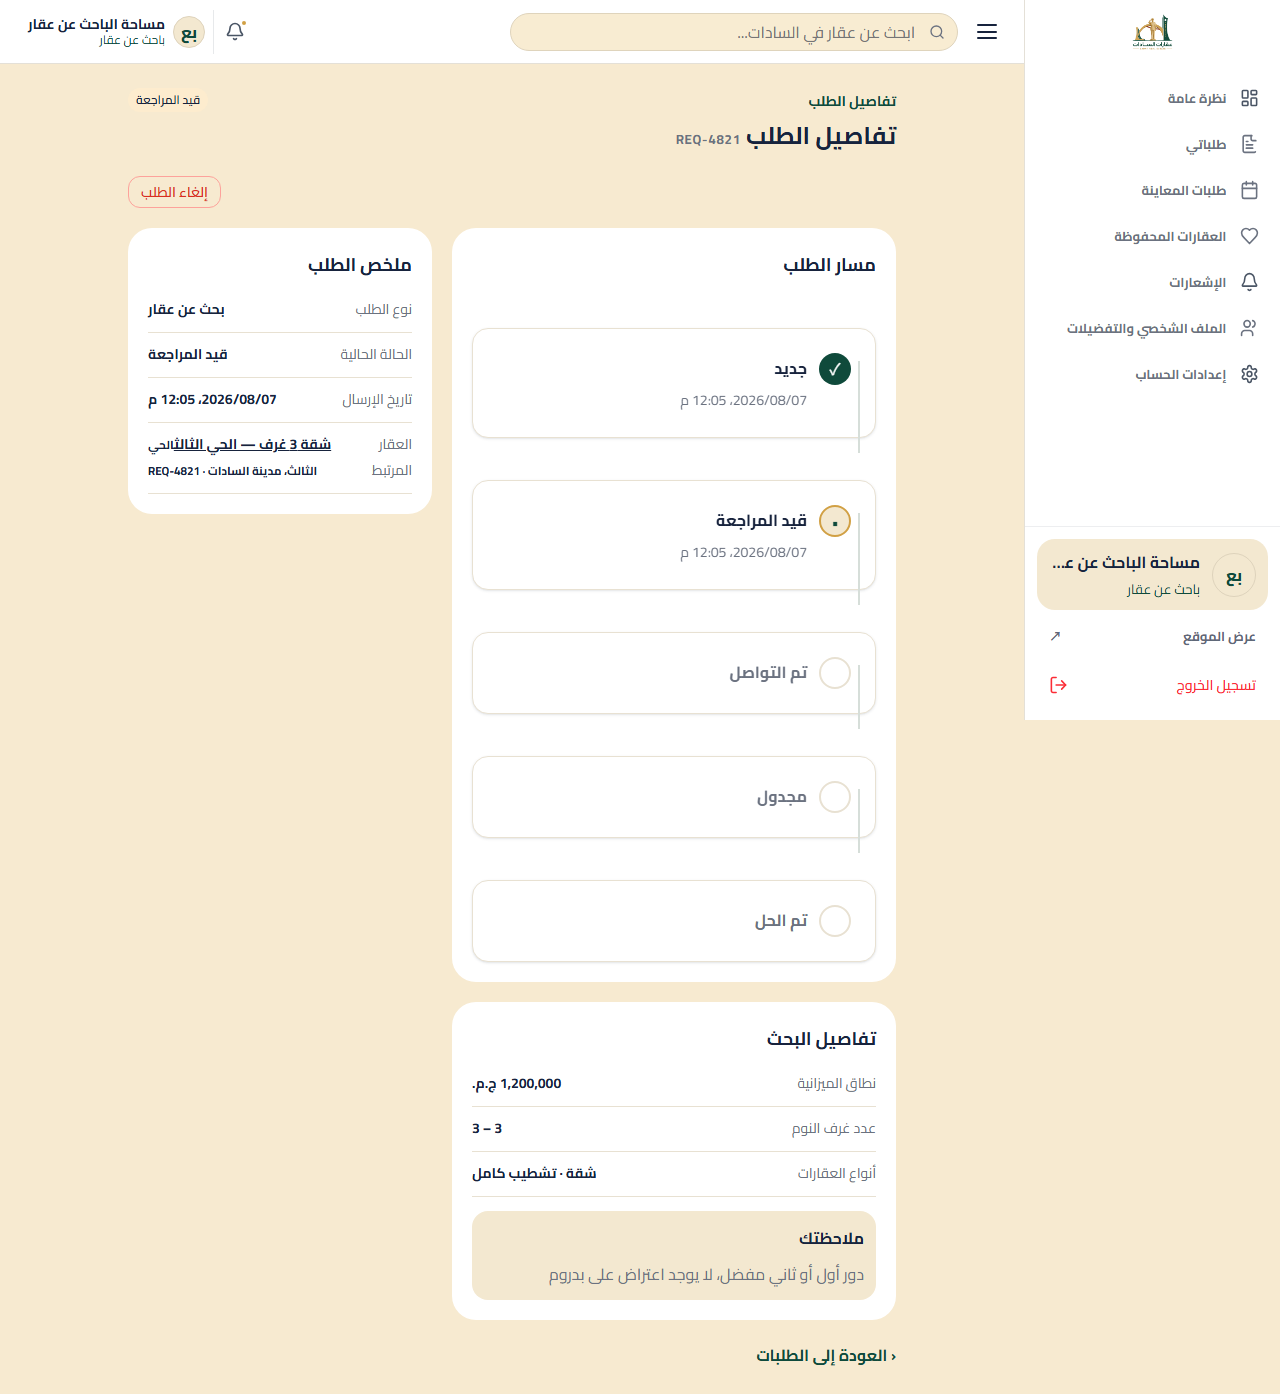
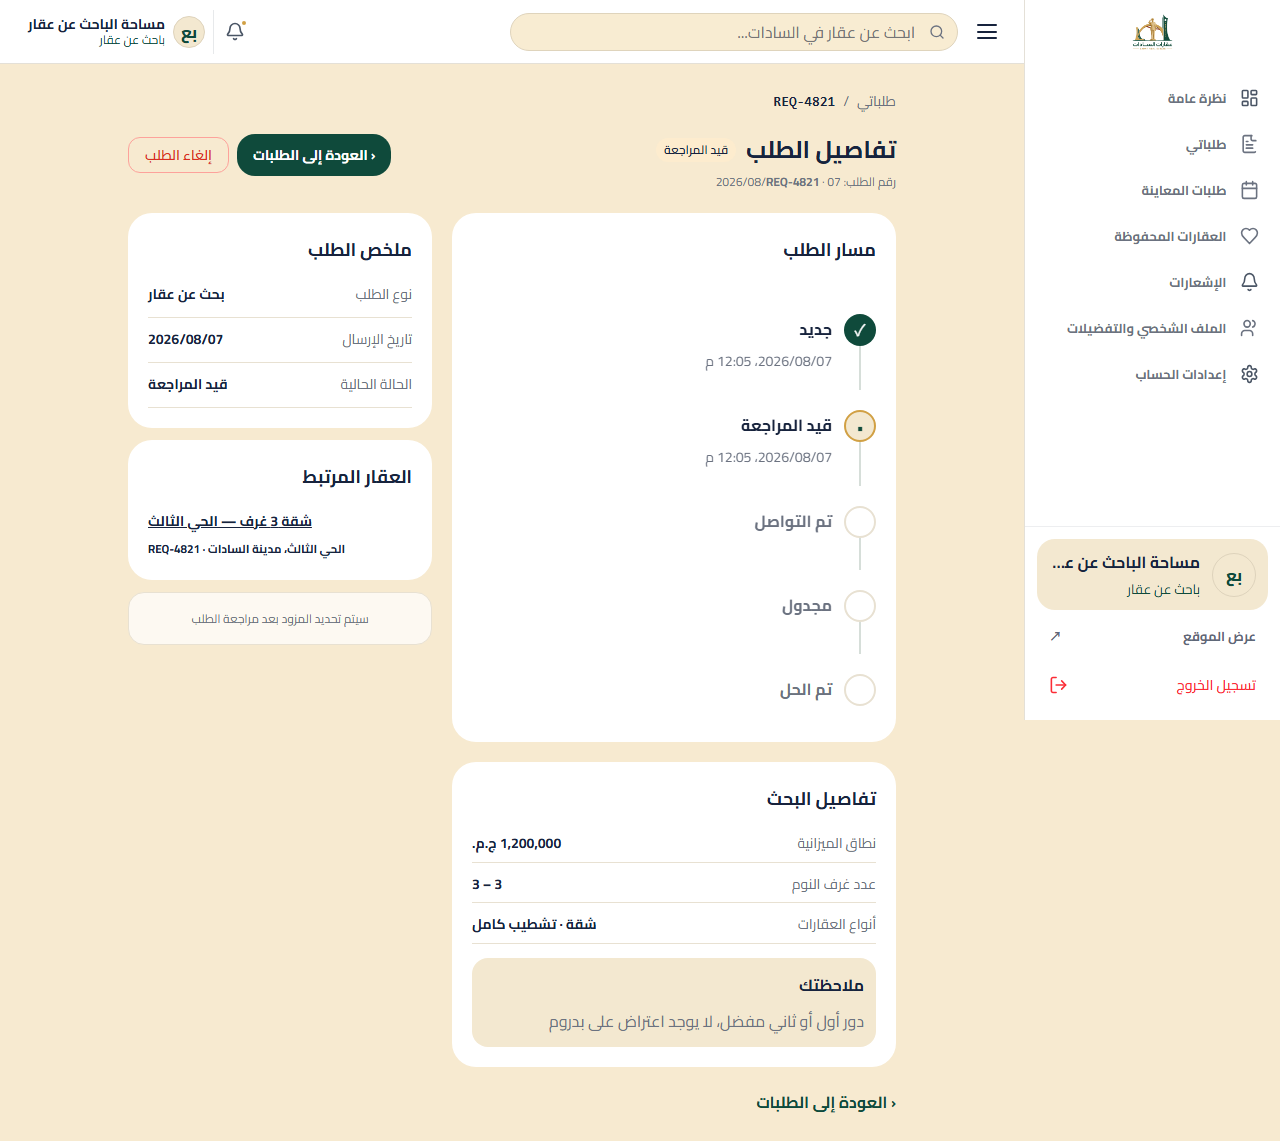
fix(seeker): align request detail composition

diff --git a/apps/web/src/features/seeker/requests.tsx b/apps/web/src/features/seeker/requests.tsx
@@ -195,14 +195,17 @@ function RequestDetailContent({ request, locale, onCancel }: { readonly request:
   const currentIndex = lifecycle.indexOf(request.status);
   return (
     <div className="seeker-request-detail" {...(screenId === undefined ? {} : { 'data-screen-id': screenId })} data-request-status={request.status}>
-      <div className="seeker-dashboard__heading-row">
-        <div>
-          <p className="seeker-dashboard__eyebrow">{copy.detail.eyebrow}</p>
-          <h1>{copy.detail.title} <span className="seeker-request-detail__id">{shortRequestId(request.id)}</span></h1>
+      <div className="seeker-request-detail__breadcrumb"><a href={localeForSeekerPath(locale, '/seeker/requests')}>{copy.list.title}</a><span>/</span><strong>{shortRequestId(request.id)}</strong></div>
+      <div className="seeker-request-detail__header">
+        <div className="seeker-request-detail__title">
+          <div><h1>{copy.detail.title}</h1><RequestStatusBadge status={request.status} locale={locale} /></div>
+          <p>{locale === 'ar' ? 'رقم الطلب:' : 'Request number:'} <strong>{shortRequestId(request.id)}</strong> · {requestListDateLabel(request.createdAt, locale)}</p>
         </div>
-        <RequestStatusBadge status={request.status} locale={locale} />
+        <div className="seeker-request-detail__actions">
+          <a className="seeker-request-detail__top-back" href={localeForSeekerPath(locale, '/seeker/requests')}>‹ {copy.detail.back}</a>
+          {request.availableActions.includes('cancel') && onCancel !== undefined ? <CancelRequestAction locale={locale} onCancel={onCancel} /> : null}
+        </div>
       </div>
-      {request.availableActions.includes('cancel') && onCancel !== undefined ? <CancelRequestAction locale={locale} onCancel={onCancel} /> : null}
       <div className="seeker-request-detail__grid">
         <section className="seeker-request-detail__card seeker-request-detail__card--timeline" aria-labelledby="seeker-request-timeline-title">
           <h2 id="seeker-request-timeline-title">{copy.detail.timeline}</h2>
@@ -214,16 +217,22 @@ function RequestDetailContent({ request, locale, onCancel }: { readonly request:
             })}
           </ol>
         </section>
-        <section className="seeker-request-detail__card seeker-request-detail__card--summary" aria-labelledby="seeker-request-summary-title">
-          <h2 id="seeker-request-summary-title">{copy.detail.summary}</h2>
-          <dl className="seeker-request-detail__values">
-            <DetailValue label={copy.detail.type} value={copy.types[request.type]} />
-            <DetailValue label={copy.detail.status} value={copy.statuses[request.status]} />
-            <DetailValue label={copy.detail.submitted} value={dateLabel(request.createdAt, locale)} />
-            <RequestPropertyValue request={request} locale={locale} label={copy.detail.property} />
-          </dl>
-          {message === undefined ? null : <div className="seeker-request-detail__payload"><h3>{copy.detail.message}</h3><p>{message}</p></div>}
-        </section>
+        <div className="seeker-request-detail__side">
+          <section className="seeker-request-detail__card seeker-request-detail__card--summary" aria-labelledby="seeker-request-summary-title">
+            <h2 id="seeker-request-summary-title">{copy.detail.summary}</h2>
+            <dl className="seeker-request-detail__values">
+              <DetailValue label={copy.detail.type} value={copy.types[request.type]} />
+              <DetailValue label={copy.detail.submitted} value={requestListDateLabel(request.createdAt, locale)} />
+              <DetailValue label={copy.detail.status} value={requestStatusLabel(request.status, locale)} />
+            </dl>
+            {message === undefined ? null : <div className="seeker-request-detail__payload"><h3>{copy.detail.message}</h3><p>{message}</p></div>}
+          </section>
+          {request.propertyId === undefined ? null : <section className="seeker-request-detail__card seeker-request-detail__card--property" aria-labelledby="seeker-request-property-title">
+            <h2 id="seeker-request-property-title">{copy.detail.property}</h2>
+            <dl className="seeker-request-detail__values"><RequestPropertyValue request={request} locale={locale} label={copy.detail.property} /></dl>
+          </section>}
+          {request.status === 'under_review' ? <p className="seeker-request-detail__provider-note">{locale === 'ar' ? 'سيتم تحديد المزود بعد مراجعة الطلب' : 'A provider will be assigned after the request is reviewed'}</p> : null}
+        </div>
         {hasAdvanced ? <section className="seeker-request-detail__card seeker-request-detail__card--advanced" aria-labelledby="seeker-request-advanced-title">
           <h2 id="seeker-request-advanced-title">{copy.detail.advanced}</h2>
           <dl className="seeker-request-detail__values">

diff --git a/apps/web/src/features/seeker/styles.css b/apps/web/src/features/seeker/styles.css
@@ -494,17 +494,37 @@
   white-space: nowrap;
 }
 
+.seeker-request-detail__breadcrumb { display: flex; align-items: center; gap: .5rem; color: var(--color-text-secondary); font-size: .875rem; }
+.seeker-request-detail__breadcrumb a { color: var(--color-text-secondary); text-decoration: none; }
+.seeker-request-detail__breadcrumb strong { color: var(--color-text-strong); font-family: Consolas, monospace; }
+.seeker-request-detail__header { display: flex; align-items: flex-start; justify-content: space-between; gap: 1rem; }
+.seeker-request-detail__title > div { display: flex; align-items: center; gap: .625rem; }
+.seeker-request-detail__title h1 { margin: 0; color: var(--color-text-strong); font-size: 1.5rem; line-height: 2rem; }
+.seeker-request-detail__title p { margin: .25rem 0 0; color: var(--color-text-secondary); font-size: .75rem; }
+.seeker-request-detail__actions { display: flex; align-items: center; gap: .5rem; }
+.seeker-request-detail__top-back { min-block-size: 2.25rem; padding: .5rem 1rem; color: #fff; background: var(--color-brand-primary); border-radius: 1.125rem; font-size: .875rem; font-weight: 700; text-decoration: none; }
+
 .seeker-request-detail__grid {
   display: grid;
   grid-template-columns: minmax(0, 1.55fr) minmax(19rem, .85fr);
-  grid-template-areas: "timeline summary" "advanced summary";
+  grid-template-areas: "timeline side" "advanced side";
   align-items: start;
   gap: 1.25rem;
 }
 
 .seeker-request-detail__card--timeline { grid-area: timeline; }
-.seeker-request-detail__card--summary { grid-area: summary; }
 .seeker-request-detail__card--advanced { grid-area: advanced; }
+.seeker-request-detail__side { grid-area: side; display: grid; gap: .75rem; }
+.seeker-request-detail__provider-note {
+  margin: 0;
+  padding: .875rem 1rem;
+  color: var(--color-text-secondary);
+  background: rgb(255 255 255 / 72%);
+  border: 1px solid var(--color-border);
+  border-radius: 1rem;
+  font-size: .75rem;
+  text-align: center;
+}
 
 .seeker-request-detail__card--advanced {
   padding-block: 1rem;
@@ -520,6 +540,8 @@
 }
 
 .seeker-request-detail__cancel > .ui-button {
+  min-block-size: 2.25rem;
+  padding: .5rem 1rem;
   color: #d92d20;
   background: transparent;
   border-color: #fda29b;
@@ -553,6 +575,15 @@
   border-radius: var(--radius-xl);
   box-shadow: var(--shadow-card);
 }
+
+.seeker-request-detail__card--property .seeker-request-detail__value {
+  display: block;
+  padding: 0;
+  border: 0;
+}
+
+.seeker-request-detail__card--property .seeker-request-detail__value dt { display: none; }
+.seeker-request-detail__card--property .seeker-request-detail__value dd { display: grid; gap: .25rem; }
 
 .seeker-request-detail__card h2 {
   margin-block-start: 0;
@@ -696,8 +727,11 @@
 
   .seeker-request-detail__grid {
     grid-template-columns: 1fr;
-    grid-template-areas: "timeline" "summary" "advanced";
+    grid-template-areas: "side" "timeline" "advanced";
   }
+
+  .seeker-request-detail__header { flex-direction: column; }
+  .seeker-request-detail__actions { flex-wrap: wrap; }
 }
 
 .seeker-viewings__heading-actions {
@@ -1980,13 +2014,18 @@
   .seeker-request-row { min-block-size: 4.25rem; }
   .seeker-request-detail__timeline li[data-state][data-state] {
     max-width: none;
+    min-height: 3rem !important;
     margin-block-start: 0;
-    padding: 0;
-    background: transparent;
-    border: 0;
-    border-radius: 0;
-    box-shadow: none;
+    padding: 0 !important;
+    background: transparent !important;
+    border: 0 !important;
+    border-radius: 0 !important;
+    box-shadow: none !important;
   }
+
+  .seeker-request-detail__timeline { gap: .25rem; margin-block-start: 1rem; }
+  .seeker-request-detail__card--timeline { min-block-size: 23.5rem; }
+  .seeker-request-detail__card--advanced .seeker-request-detail__value { padding-block-end: .35rem; }
 
   .seeker-viewings > .seeker-dashboard__content > .seeker-dashboard__heading-row,
   .seeker-saved > .seeker-dashboard__content > .seeker-dashboard__heading-row,
@@ -2710,7 +2749,7 @@
 
   .seeker-request-detail__grid {
     grid-template-columns: 1fr;
-    grid-template-areas: "summary" "timeline" "advanced";
+    grid-template-areas: "side" "timeline" "advanced";
   }
 
   .seeker-viewing-card {

diff --git a/apps/web/tests/e2e/seeker-requests.spec.ts b/apps/web/tests/e2e/seeker-requests.spec.ts
@@ -254,7 +254,7 @@ test.describe('SEK-02/03/04 Seeker Requests', () => {
     await page.goto(`/seeker/requests/${ownRequestId}?lang=${encodeURIComponent(locale)}`, { waitUntil: 'domcontentloaded' });
     await expect(page.locator('[data-screen-id="SEK-03"]')).toHaveAttribute('data-request-status', 'under_review');
     await expect(page.locator('.seeker-request-detail h1')).toBeVisible();
-    await expect(page.getByText('REQ-4821', { exact: true })).toBeVisible();
+    await expect(page.locator('.seeker-request-detail__breadcrumb strong')).toHaveText('REQ-4821');
     await expect(page.getByText(locale === 'ar' ? 'شقة 3 غرف — الحي الثالث' : '3-bedroom apartment — Third District')).toBeVisible();
     await expect(page.locator('body')).not.toContainText(/assignedTo|internalNotes|auditData|dueAt|providerId|seekerId/u);
     await expect(page).toHaveScreenshot(`seeker-request-under-review-${locale}.png`, { fullPage: true });
